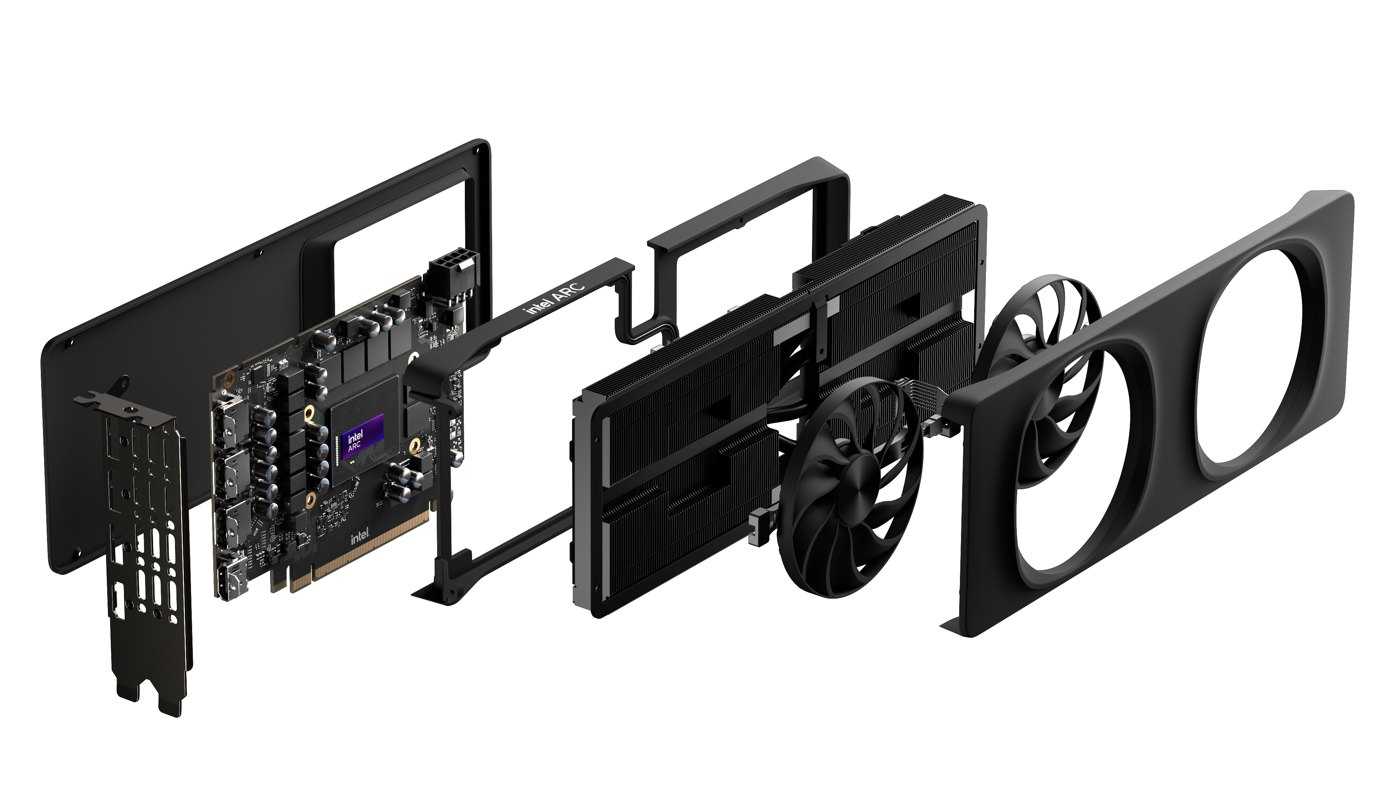
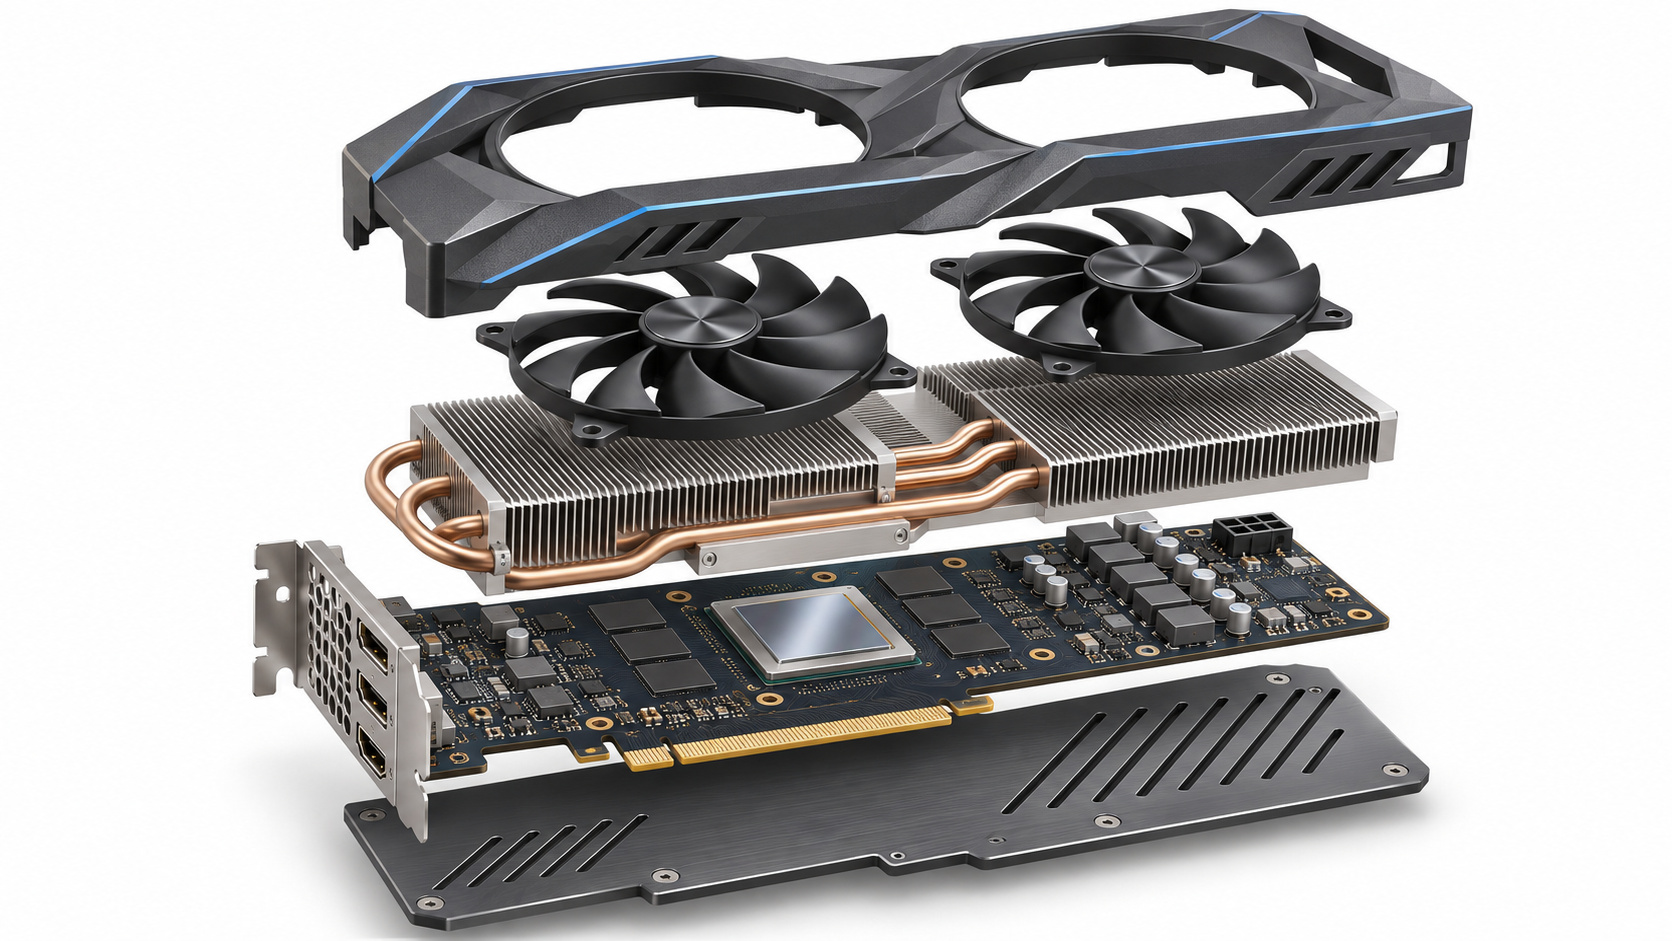
docs: replace Intel press photo with custom GPU illustration (#63)

diff --git a/README.md b/README.md
@@ -176,9 +176,7 @@ support. Stars show interest in the project; compatibility comes from documented
 hardware results. Reports from Arch, Fedora, RHEL and openSUSE systems are welcome.
 Multi-GPU operation is in testing.
 
-![Intel Arc B580 Limited Edition, exploded view](docs/img/intel-arc-b580-press.jpg)
-
-<sub>Intel Arc B580 Limited Edition. Photo © Intel Corporation, from Intel's newsroom press kit for the Arc B-Series launch (Dec 2024), reproduced with credit. The photo is Intel's and is **not** covered by this project's licence.</sub>
+![Conceptual dual-fan GPU illustration, exploded view](docs/img/intel-arc-b580-press.jpg)
 
 ![Why the VRAM window is stuck at 256 MB and how arc-rebar fixes it](docs/img/arc-rebar-pin.svg)
 
@@ -720,7 +718,7 @@ packaging/  build-arch.sh  build-rpm.sh   Arch and RPM package recipes and build
 tools/  sign-release.sh            release signing (make-manifest.sh, sign-release.sh) and checks (verify-manifest.sh)
 MANIFEST.sha256 (+ .asc)          the signed list of every shipped file, checked by every install
 docs/signing-key.asc              the public key that signs every release (see SECURITY.md)
-docs/img/intel-arc-b580-press.jpg  Intel's press photo of the card (© Intel Corporation, credited; not under this licence)
+docs/img/intel-arc-b580-press.jpg  Custom conceptual GPU illustration (exploded view)
 docs/img/arc-rebar-pin.svg        the mechanism diagram (original artwork)
 docs/ROOT-CAUSE.md                the full investigation, with the kernel log evidence
 docs/TESTS.md                     every test command used, with before/after numbers
@@ -761,9 +759,7 @@ Software License Agreement in [LICENSE](LICENSE):
 - **No tampering** — don't remove or bypass licence checks, signatures or notices (§3.5).
 - **No warranty** — see LICENSE §5–6 and [DISCLAIMER.md](DISCLAIMER.md).
 
-Not an open-source licence. The B580 product photo in `docs/img/` is © Intel
-Corporation (Intel newsroom press kit) and is excluded from this licence. The
-underlying technique — programming the ReBAR
+Not an open-source licence. The underlying technique — programming the ReBAR
 control register and re-enumerating the root port — is not claimed; it was first
 published by andersevenrud for a Supermicro H11SSL-i. This licence covers this
 implementation only.
